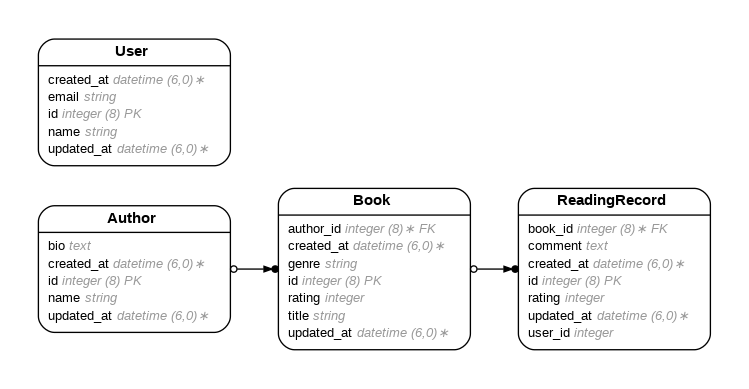
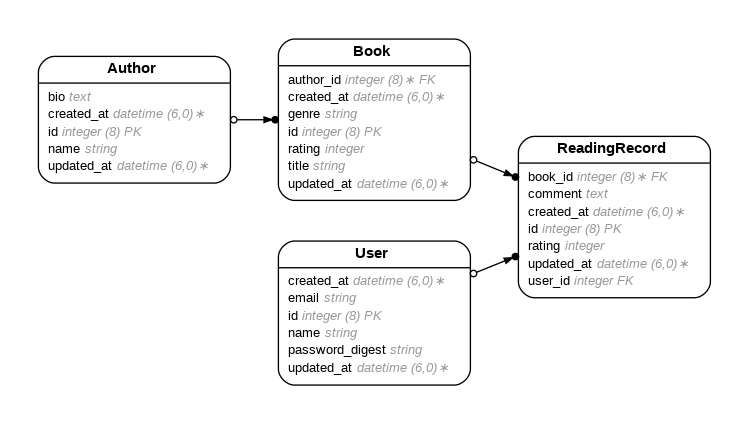
add some css and user authentication

diff --git a/app/controllers/reading_records_controller.rb b/app/controllers/reading_records_controller.rb
@@ -16,5 +16,20 @@ class ReadingRecordsController < ApplicationController
       redirect_to new_reading_record_path, alert: "Something went wrong."
     end
   end
-end
 
+  def index
+    @genres = Book.distinct.pluck(:genre).compact.sort
+
+    @selected_genre = params[:genre]
+    @sort_order = params[:sort] == "rating" ? "DESC" : "created_at DESC"
+
+    @reading_records = ReadingRecord.includes(:user, :book)
+
+    if @selected_genre.present?
+      @reading_records = @reading_records.joins(:book).where(books: { genre: @selected_genre })
+    end
+
+    @reading_records = @reading_records.order("rating #{@sort_order}")
+  end
+
+end

diff --git a/db/schema.rb b/db/schema.rb
@@ -10,7 +10,7 @@
 #
 # It's strongly recommended that you check this file into your version control system.
 
-ActiveRecord::Schema[7.1].define(version: 2025_05_27_174635) do
+ActiveRecord::Schema[7.1].define(version: 2025_05_27_185218) do
   # These are extensions that must be enabled in order to support this database
   enable_extension "plpgsql"
 
@@ -46,6 +46,7 @@ ActiveRecord::Schema[7.1].define(version: 2025_05_27_174635) do
     t.string "email"
     t.datetime "created_at", null: false
     t.datetime "updated_at", null: false
+    t.string "password_digest"
   end
 
   add_foreign_key "books", "authors"

diff --git a/app/models/user.rb b/app/models/user.rb
@@ -2,12 +2,15 @@
 #
 # Table name: users
 #
-#  id         :bigint           not null, primary key
-#  email      :string
-#  name       :string
-#  created_at :datetime         not null
-#  updated_at :datetime         not null
+#  id              :bigint           not null, primary key
+#  email           :string
+#  name            :string
+#  password_digest :string
+#  created_at      :datetime         not null
+#  updated_at      :datetime         not null
 #
 class User < ApplicationRecord
+  has_secure_password
   has_many :reading_records
+  validates :email, presence: true, uniqueness: true
 end

diff --git a/app/controllers/sessions_controller.rb b/app/controllers/sessions_controller.rb
@@ -1,0 +1,20 @@
+class SessionsController < ApplicationController
+  def new
+  end
+
+  def create
+    user = User.find_by(email: params[:email])
+    if user&.authenticate(params[:password])
+      session[:user_id] = user.id
+      redirect_to "/books", notice: "Logged in!"
+    else
+      flash.now[:alert] = "Invalid email or password"
+      render :new
+    end
+  end
+
+  def destroy
+    session[:user_id] = nil
+    redirect_to "/books", notice: "Logged out!"
+  end
+end

diff --git a/app/controllers/users_controller.rb b/app/controllers/users_controller.rb
@@ -1,0 +1,21 @@
+class UsersController < ApplicationController
+  def new
+    @user = User.new
+  end
+
+  def create
+    @user = User.new(user_params)
+    if @user.save
+      session[:user_id] = @user.id
+      redirect_to "/books", notice: "Signed up!"
+    else
+      render :new
+    end
+  end
+
+  private
+
+  def user_params
+    params.require(:user).permit(:email, :name, :password, :password_confirmation)
+  end
+end

diff --git a/config/routes.rb b/config/routes.rb
@@ -16,6 +16,13 @@ Rails.application.routes.draw do
   resources :reading_records, only: [:new, :create]
 
   get "recommendations", to: "recommendations#index"
-
   root "books#index"
+
+  get "/signup", to: "users#new"
+  post "/users", to: "users#create"
+
+  get "/login", to: "sessions#new"
+  post "/login", to: "sessions#create"
+  delete "/logout", to: "sessions#destroy"
+
 end

diff --git a/app/controllers/application_controller.rb b/app/controllers/application_controller.rb
@@ -1,3 +1,14 @@
 class ApplicationController < ActionController::Base
   skip_forgery_protection
+  
+  helper_method :current_user, :logged_in?
+
+  def current_user
+    @current_user ||= User.find_by(id: session[:user_id])
+  end
+
+  def logged_in?
+    current_user.present?
+  end
+
 end

diff --git a/db/migrate/20250527185218_add_password_digest_to_users.rb b/db/migrate/20250527185218_add_password_digest_to_users.rb
@@ -1,0 +1,5 @@
+class AddPasswordDigestToUsers < ActiveRecord::Migration[7.1]
+  def change
+    add_column :users, :password_digest, :string
+  end
+end
